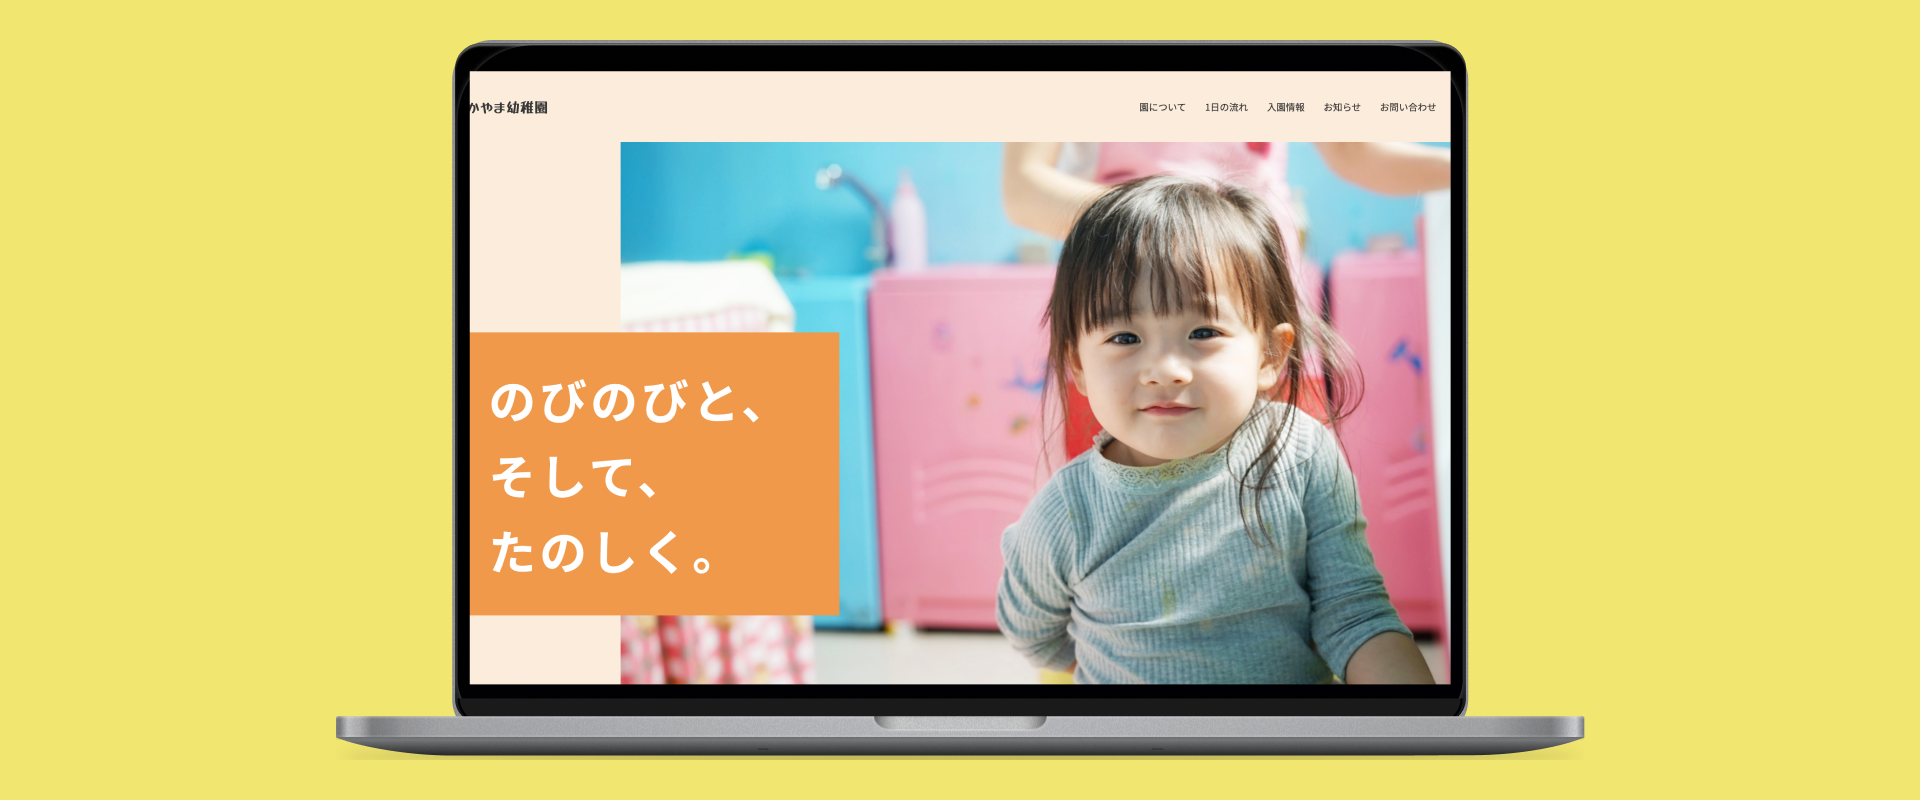
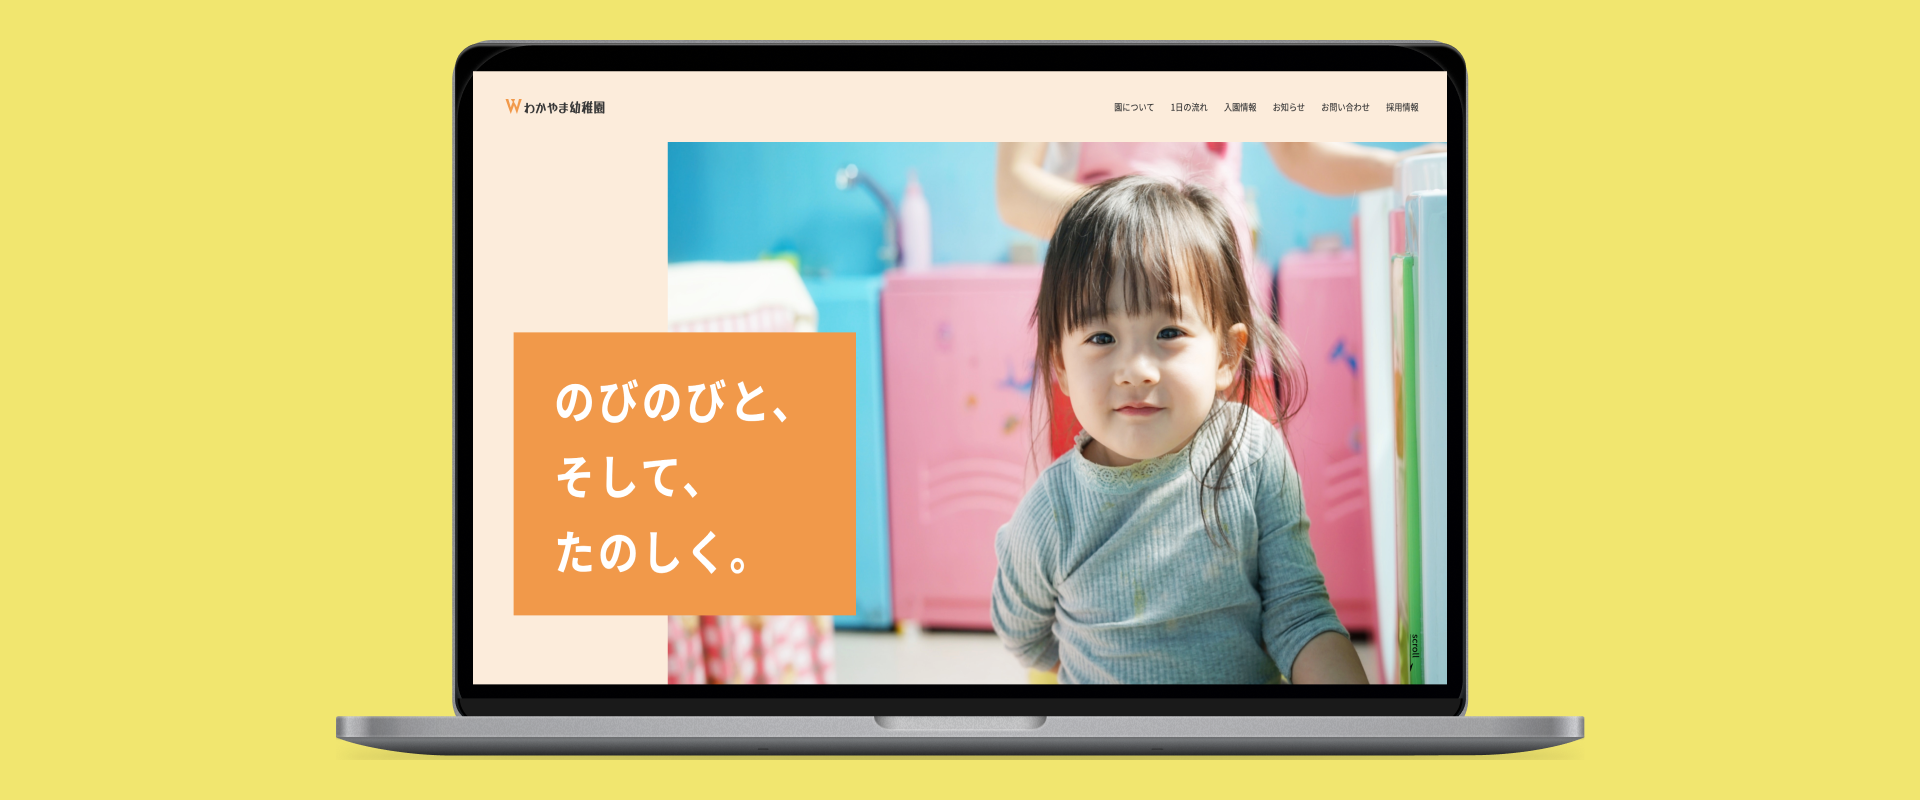
image fix

Changed region(s): [[0.3125, 0.125, 0.7812, 0.875], [0.2188, 0.4062, 0.4062, 0.7812], [0.25, 0.125, 0.3125, 0.1562]]

diff --git a/src/components/TheHeader.vue b/src/components/TheHeader.vue
@@ -21,7 +21,7 @@
           </li>
         </ul>
       </nav>
-      <button class="header__mobile-menu" @click="openMenu">
+      <button class="header__mobile-menu" @click="openMenu" aria-label="メニューの開閉ボタン">
         <span></span>
         <span></span>
         <span></span>
@@ -90,6 +90,10 @@ export default {
     &__link {
       display: flex;
       align-items: center;
+    }
+    &__logo-logo {
+      height: auto;
+      width: auto;
     }
     &__logo-text {
       display: none;

diff --git a/src/components/TopContent.vue b/src/components/TopContent.vue
@@ -43,6 +43,7 @@ export default {
     height: max(calc(812px - 80px), calc(100vh - 80px));
     &__image {
       width: 100%;
+      height: auto;
       animation: fuwafuwa 3s ease-in-out infinite;
     }
     &__catch-copy {

diff --git a/src/components/ProfileContent.vue b/src/components/ProfileContent.vue
@@ -87,6 +87,10 @@ export default {
         margin-right: 0px;
       }
     }
+    &__sns-icon-img {
+      width: auto;
+      height: auto;
+    }
     &__text {
       line-height: 1.6;
       &--en {

diff --git a/src/components/TheLoading.vue b/src/components/TheLoading.vue
@@ -317,6 +317,7 @@ export default {
     }
     &__logo {
       width: clamp(240px, 50vw, 320px);
+      height: auto;
     }
     &__logo-img {
       width: 100%;

diff --git a/src/components/ProductsContent.vue b/src/components/ProductsContent.vue
@@ -147,6 +147,7 @@ export default {
     }
     &__img {
       width: min(100%, 327px);
+      height: auto;
       display: block;
     }
     &__title {
